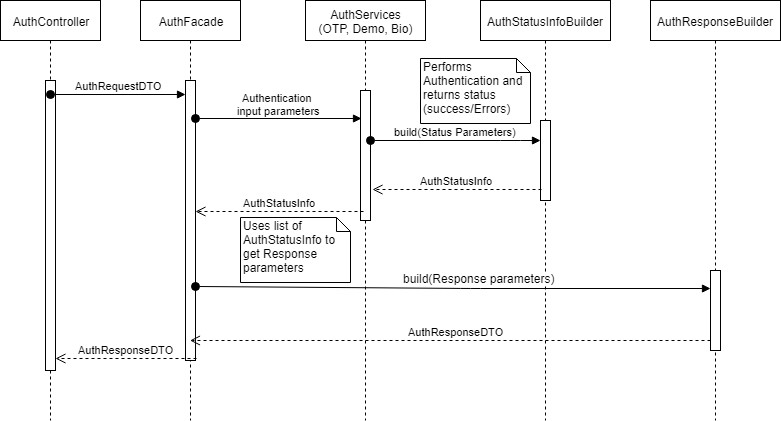
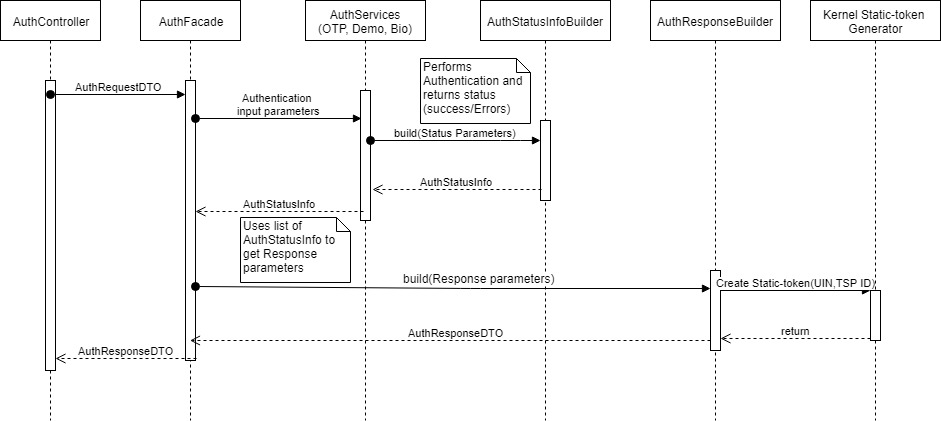
MOS-13474 updated auth response design class and seq diag.

diff --git a/docs/design/authentication/ID_Auth_REST_service_Response_Builder.md b/docs/design/authentication/ID_Auth_REST_service_Response_Builder.md
@@ -36,8 +36,9 @@ For any authentication request (single or multi-factor), a generic AuthResponse 
 1.	status(Y/N) - The authentication success or failure status, 
 2.	txnId (same as request) - the transaction ID, 
 3.	resTime  - the timestamp of response, 
-4.	err - Array of Errors with error code and message, in case of authentication failure, data validation failure or any other error
-5.	info - This block contains below information
+4.	staticTocken - The token generated using **Kernel-Static Token generator** which will be a combination of individual's UIN and TSP ID, and it will always be the same value for one combination.
+5.	err - Array of Errors with error code and message, in case of authentication failure, data validation failure or any other error
+6.	info - This block contains below information
 
    a.	idType - Type of ID (D for UIN, V for VID)
    
@@ -47,9 +48,7 @@ For any authentication request (single or multi-factor), a generic AuthResponse 
       
    d.	usageData - The 16 digit hex encoded format of used and matched bits.
    
-   e.   staticTocken - The token generated using **Kernel-Static Token generator** which will be a combination of individual's UIN and TSP ID, and it will always be the same value for one combination.
-   
-   f.	matchInfo - Array of Matching information with Matching Strategy and Match Threshold values as in request. This contain below information: 
+   e.	matchInfos - Array of Matching information with Matching Strategy and Match Threshold values as in request. This contain below information: 
    
    	- authType - Which can be one of address, personalIdentity, fullAddress
    
@@ -59,7 +58,7 @@ For any authentication request (single or multi-factor), a generic AuthResponse 
    
    	- matchingThreshold - Integer value for match threshold (0 to 100)
    
-   g.	bioInfo - Array of Biometric information with bioType and Device Informations values as in request. This contain below information: 
+   f.	bioInfos - Array of Biometric information with bioType and Device Informations values as in request. This contain below information: 
    
    	- bioType - Which can be one of address, personalIdentity, fullAddress
    
@@ -73,11 +72,11 @@ A Sample response body will be as blow:
   "status": true,
   "err": [],
   "txnID": "txn1234567890",
+  "staticToken": "526900409300563849276960763148952762",
   "resTime": "2018-10-26T12:19:24.352Z",
   "info": {
     "idvIdType": "D",
     "reqTime": "2018-10-26T12:20:04.121Z",
-    "staticToken": "526900409300563849276960763148952762",
     "ver": "1.0",
     "matchInfos": [
       {
